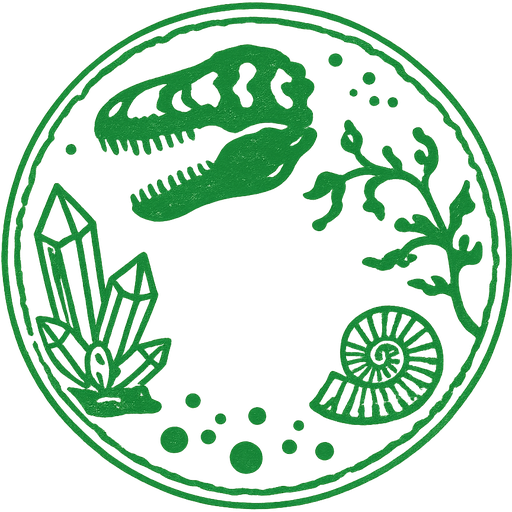
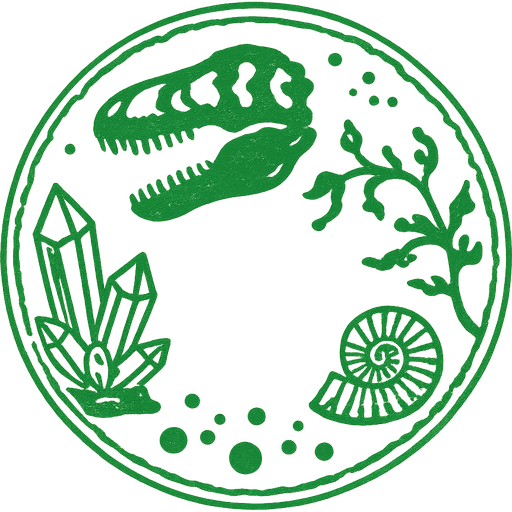
スタンプ画像のトリミングを修正し円の上部が切れないように
元画像の下部にあるほぼ透明のピクセルをbboxが拾って円の中心が
ずれていたため、alpha閾値でトリミングして正方形にパディングする
方式に変更。水族館の日付位置も新しい画像に合わせて再調整。

diff --git a/src/index.css b/src/index.css
@@ -396,7 +396,7 @@ body {
 }
 .stamp-circle.stamped.cat-aquarium .stamp-date,
 .stamped-mark.cat-aquarium .stamp-date {
-  translate: 0 0;
+  translate: 0 5px;
   color: #0050a8;
 }
 /* artのみ空白が右上にある */